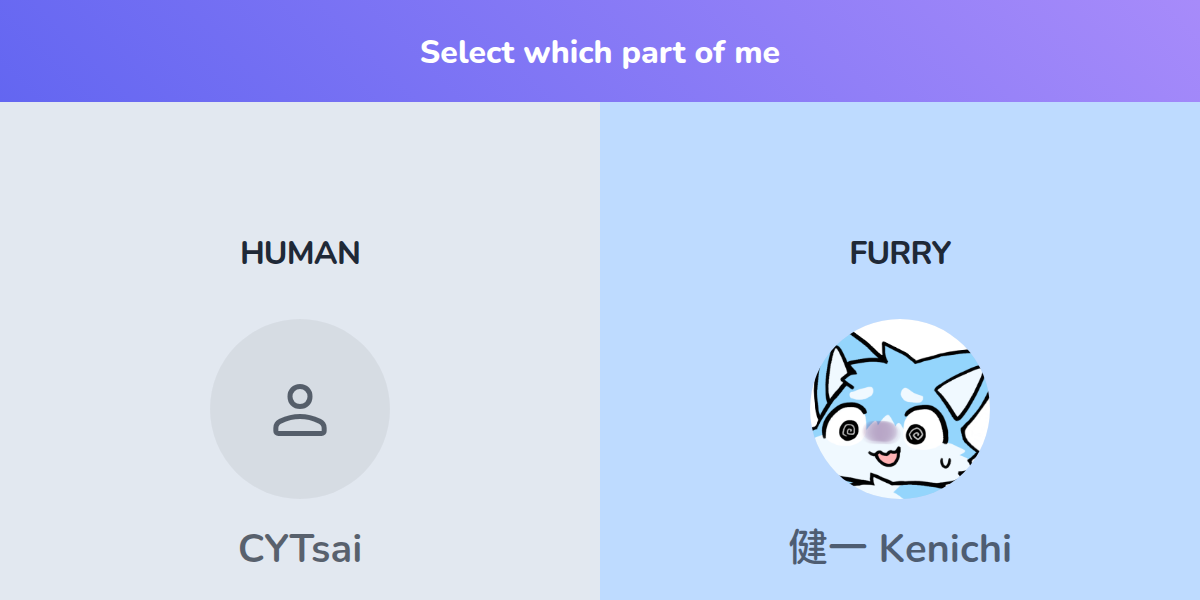
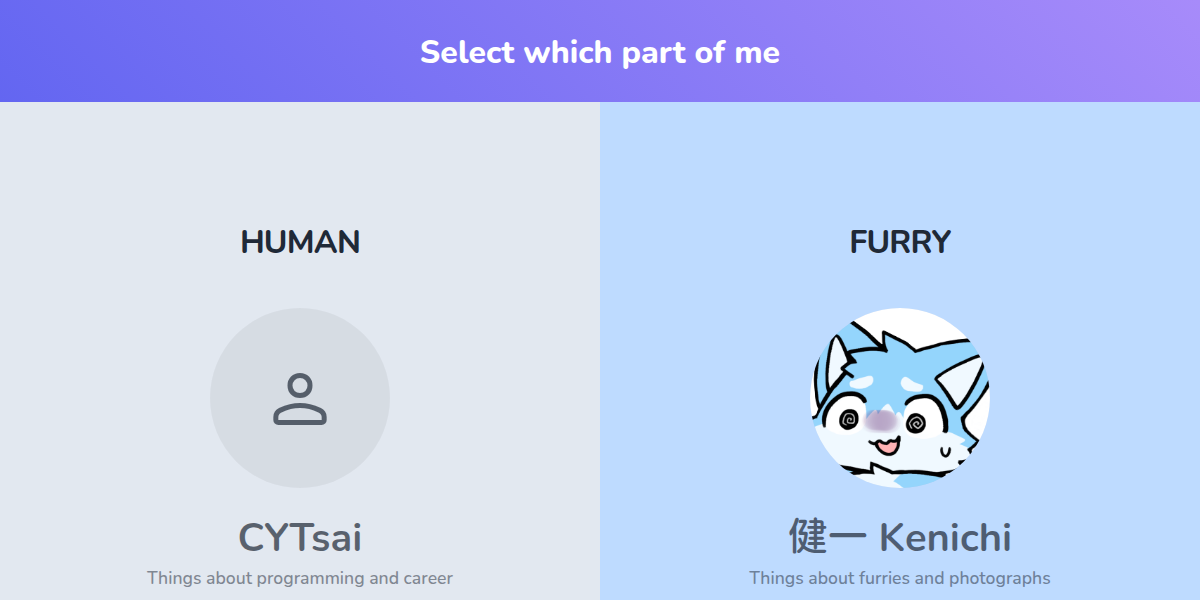
deploy: 23f0327e6044b1a0eaf17da979d1845061bb6e5b

diff --git a/script.js b/script.js
@@ -95,38 +95,26 @@ document.addEventListener('DOMContentLoaded', function () {
     const desktopLayout = document.querySelector('.desktop-layout');
     const footer = document.querySelector('.footer');
     const mainHeader = document.querySelector('.main-header');
-    let isMouseInFooter = false;
-    let isMouseInHeader = false;
+    let isMouseInRestrictedZone = false;
 
     // Only enable the hover effect on desktop devices.
     if (desktopLayout && window.matchMedia('(min-width: 769px)').matches) {
 
-        if (footer) {
-            footer.addEventListener('mouseenter', () => {
-                isMouseInFooter = true;
-                realLifeSection.classList.remove('expanded');
-                furryLifeSection.classList.remove('expanded');
-            });
-
-            footer.addEventListener('mouseleave', () => {
-                isMouseInFooter = false;
-            });
-        }
-
-        if (mainHeader) {
-            mainHeader.addEventListener('mouseenter', () => {
-                isMouseInHeader = true;
-                realLifeSection.classList.remove('expanded');
-                furryLifeSection.classList.remove('expanded');
-            });
-
-            mainHeader.addEventListener('mouseleave', () => {
-                isMouseInHeader = false;
-            });
-        }
+        [mainHeader, footer].forEach(element => {
+            if (element) {
+                element.addEventListener('mouseenter', () => {
+                    isMouseInRestrictedZone = true;
+                    realLifeSection.classList.remove('expanded');
+                    furryLifeSection.classList.remove('expanded');
+                });
+                element.addEventListener('mouseleave', () => {
+                    isMouseInRestrictedZone = false;
+                });
+            }
+        });
 
         document.addEventListener('mousemove', (e) => {
-            if (isMouseInFooter || isMouseInHeader) {
+            if (isMouseInRestrictedZone) {
                 return;
             }
             const windowWidth = window.innerWidth;
@@ -160,6 +148,25 @@ document.addEventListener('DOMContentLoaded', function () {
 
     const themeIcon = document.getElementById('theme-icon');
     const themeDropdown = document.getElementById('theme-dropdown');
+    const themeSwitcher = document.querySelector('.theme-switcher');
+    const themeSwitcherButton = document.getElementById('theme-switcher-button');
+    const mobileMediaQuery = window.matchMedia('(max-width: 768px)');
+
+    /**
+     * Animates an icon by adding a CSS class and removing it on animation end.
+     * @param {HTMLElement} icon - The icon element to animate.
+     * @param {string} animationClass - The CSS animation class to apply.
+     */
+    const animateIcon = (icon, animationClass) => {
+        if (icon) {
+            const listener = () => {
+                icon.classList.remove(animationClass);
+                icon.removeEventListener('animationend', listener);
+            };
+            icon.addEventListener('animationend', listener);
+            icon.classList.add(animationClass);
+        }
+    };
 
     /**
      * Applies the selected theme to the page.
@@ -181,11 +188,7 @@ document.addEventListener('DOMContentLoaded', function () {
         localStorage.setItem('theme', theme);
 
         if (animate) {
-            // Animate the theme icon
-            themeIcon.classList.add('theme-icon-animation');
-            setTimeout(() => {
-                themeIcon.classList.remove('theme-icon-animation');
-            }, 500); // Animation duration is 500ms
+            animateIcon(themeIcon, 'theme-icon-animation');
         }
 
         // Update icon fill for the active theme
@@ -199,10 +202,7 @@ document.addEventListener('DOMContentLoaded', function () {
         if (activeIcon) {
             activeIcon.style.fontVariationSettings = "'FILL' 1";
             if (animate) {
-                activeIcon.classList.add('selector-icon-animation');
-                setTimeout(() => {
-                    activeIcon.classList.remove('selector-icon-animation');
-                }, 500); // Animation duration is 500ms
+                animateIcon(activeIcon, 'selector-icon-animation');
             }
         }
     };
@@ -221,10 +221,81 @@ document.addEventListener('DOMContentLoaded', function () {
         if (theme) {
             e.preventDefault();
             applyTheme(theme);
+            if (mobileMediaQuery.matches) {
+                themeSwitcher.classList.remove('show-dropdown');
+            }
+        }
+    });
+
+    if (themeSwitcherButton) {
+        themeSwitcherButton.addEventListener('click', () => {
+            if (mobileMediaQuery.matches) {
+                themeSwitcher.classList.toggle('show-dropdown');
+            }
+        });
+
+        const resetIconWeight = () => {
+            themeIcon.style.fontVariationSettings = "'FILL' 1";
+        };
+
+        const pressIcon = () => {
+            themeIcon.style.fontVariationSettings = "'FILL' 1, 'wght' 100";
+        }
+
+        ['mousedown', 'touchstart'].forEach(evt => themeSwitcherButton.addEventListener(evt, pressIcon));
+        ['mouseup', 'mouseleave', 'touchend', 'touchcancel'].forEach(evt => themeSwitcherButton.addEventListener(evt, resetIconWeight));
+    }
+
+    // Click outside to close dropdown on mobile
+    document.addEventListener('click', (e) => {
+        if (mobileMediaQuery.matches && !themeSwitcher.contains(e.target)) {
+            themeSwitcher.classList.remove('show-dropdown');
         }
     });
 
     // Load the saved theme from local storage or default to 'system'.
     const savedTheme = localStorage.getItem('theme') || 'system';
     applyTheme(savedTheme, false);
+
+    // -------------------------------------------------------------------------
+    // Floating Theme Switcher on Mobile
+    // -------------------------------------------------------------------------
+    let lastScrollY = window.scrollY;
+    const scrollThreshold = 100; // Pixels to scroll before showing/hiding
+
+    const handleScroll = () => {
+        const currentScrollY = window.scrollY;
+
+        if (mobileMediaQuery.matches) {
+            // Only apply on mobile
+            if (currentScrollY > lastScrollY && currentScrollY > scrollThreshold) {
+                // Scrolling down and past threshold
+                themeSwitcher.classList.add('visible');
+            } else if (currentScrollY < lastScrollY || currentScrollY <= scrollThreshold) {
+                // Scrolling up or at the top of the page
+                themeSwitcher.classList.remove('visible');
+                themeSwitcher.classList.remove('show-dropdown'); // Also close dropdown
+            }
+        } else {
+            // On desktop, ensure it's not floating and visible by default
+            themeSwitcher.classList.remove('visible');
+        }
+        lastScrollY = currentScrollY;
+    };
+
+    const handleResize = () => {
+        if (!mobileMediaQuery.matches) {
+            // If resized to desktop, ensure the switcher is not floating
+            themeSwitcher.classList.remove('visible');
+            themeSwitcher.classList.remove('show-dropdown'); // Also close dropdown
+        }
+    };
+
+    window.addEventListener('scroll', handleScroll);
+    window.addEventListener('resize', handleResize);
+
+    // Initial check on load for mobile devices
+    if (mobileMediaQuery.matches) {
+        themeSwitcher.classList.remove('visible'); // Ensure it's hidden initially on mobile
+    }
 });

diff --git a/style.css b/style.css
@@ -30,6 +30,7 @@
     --profile-image-border: rgb(0 0 0 / 10%);
     --profile-image-hover-border: rgb(0 0 0 / 20%);
     --name-text: 0.7;
+    --subtitle-opacity: 0.5;
     --footer-bg: #f8f9fa;
     --footer-text: #6c757d;
     --dropdown-bg: #fff;
@@ -55,6 +56,7 @@ html[data-theme="dark"] {
     --profile-image-border: rgb(255 255 255 / 20%);
     --profile-image-hover-border: rgb(255 255 255 / 40%);
     --name-text: 0.8;
+    --subtitle-opacity: 0.7;
     --footer-bg: oklch(21% 0.034 264.665deg);
     --footer-text: #fff;
     --dropdown-bg: oklch(21% 0.034 264.665deg);
@@ -181,6 +183,12 @@ body {
     margin-bottom: 0.5rem;
 }
 
+.subtitle-text {
+    font-size: 1.1rem;
+    font-weight: 400;
+    opacity: var(--subtitle-opacity);
+}
+
 /* Links */
 a.life-section {
     text-decoration: none;
@@ -249,11 +257,12 @@ a.life-section {
 
 .theme-dropdown a:hover {
     background-color: var(--dropdown-hover-bg);
-    border-radius: 5px;
 }
 
-.theme-switcher:hover .theme-dropdown {
-    display: block;
+@media (hover: hover) {
+    .theme-switcher:hover .theme-dropdown {
+        display: block;
+    }
 }
 
 /* Responsive Design */
@@ -266,13 +275,51 @@ a.life-section {
     .life-section {
         min-height: 50vh;
     }
+
+    .theme-switcher {
+        position: fixed;
+        bottom: 1rem;
+        right: 1rem;
+        left: auto;
+        transform: translateY(150%);
+        transition: transform 0.3s ease-in-out, opacity 0.3s ease-in-out;
+        z-index: 1000;
+        opacity: 0.8;
+    }
+
+    .theme-switcher:hover {
+        opacity: 1;
+    }
+
+    .theme-switcher.visible {
+        transform: translateY(0);
+    }
+
+    .theme-button {
+        background-color: var(--dropdown-bg);
+        border: 1px solid var(--dropdown-border);
+        box-shadow: 0 4px 12px rgb(0 0 0 / 15%);
+        width: 3.5rem;
+        height: 3.5rem;
+        border-radius: 12px;
+    }
+
+    .theme-button .theme-icon {
+        font-size: 28px;
+        color: var(--dropdown-text);
+    }
+
+    .theme-dropdown {
+        right: 0;
+        left: auto;
+    }
+
+    .theme-switcher.show-dropdown .theme-dropdown {
+        display: block;
+    }
 }
 
 @media (width <= 1024px) and (width >= 769px) {
-    .section-title {
-        font-size: 2rem;
-    }
-
     .profile-image {
         width: 100px;
         height: 100px;

diff --git a/index.html b/index.html
@@ -62,6 +62,7 @@
         </div>
         <div class="name-section">
           <div class="name-text" data-translate="realLifeName">CYTsai</div>
+          <div class="subtitle-text" data-translate="realLifeSubtitle">Things about programming and career</div>
         </div>
       </div>
     </a>
@@ -76,6 +77,7 @@
         </div>
         <div class="name-section">
           <div class="name-text" data-translate="furryLifeName">健一 Kenichi</div>
+          <div class="subtitle-text" data-translate="furryLifeSubtitle">Things about furries and photographs</div>
         </div>
       </div>
     </a>
